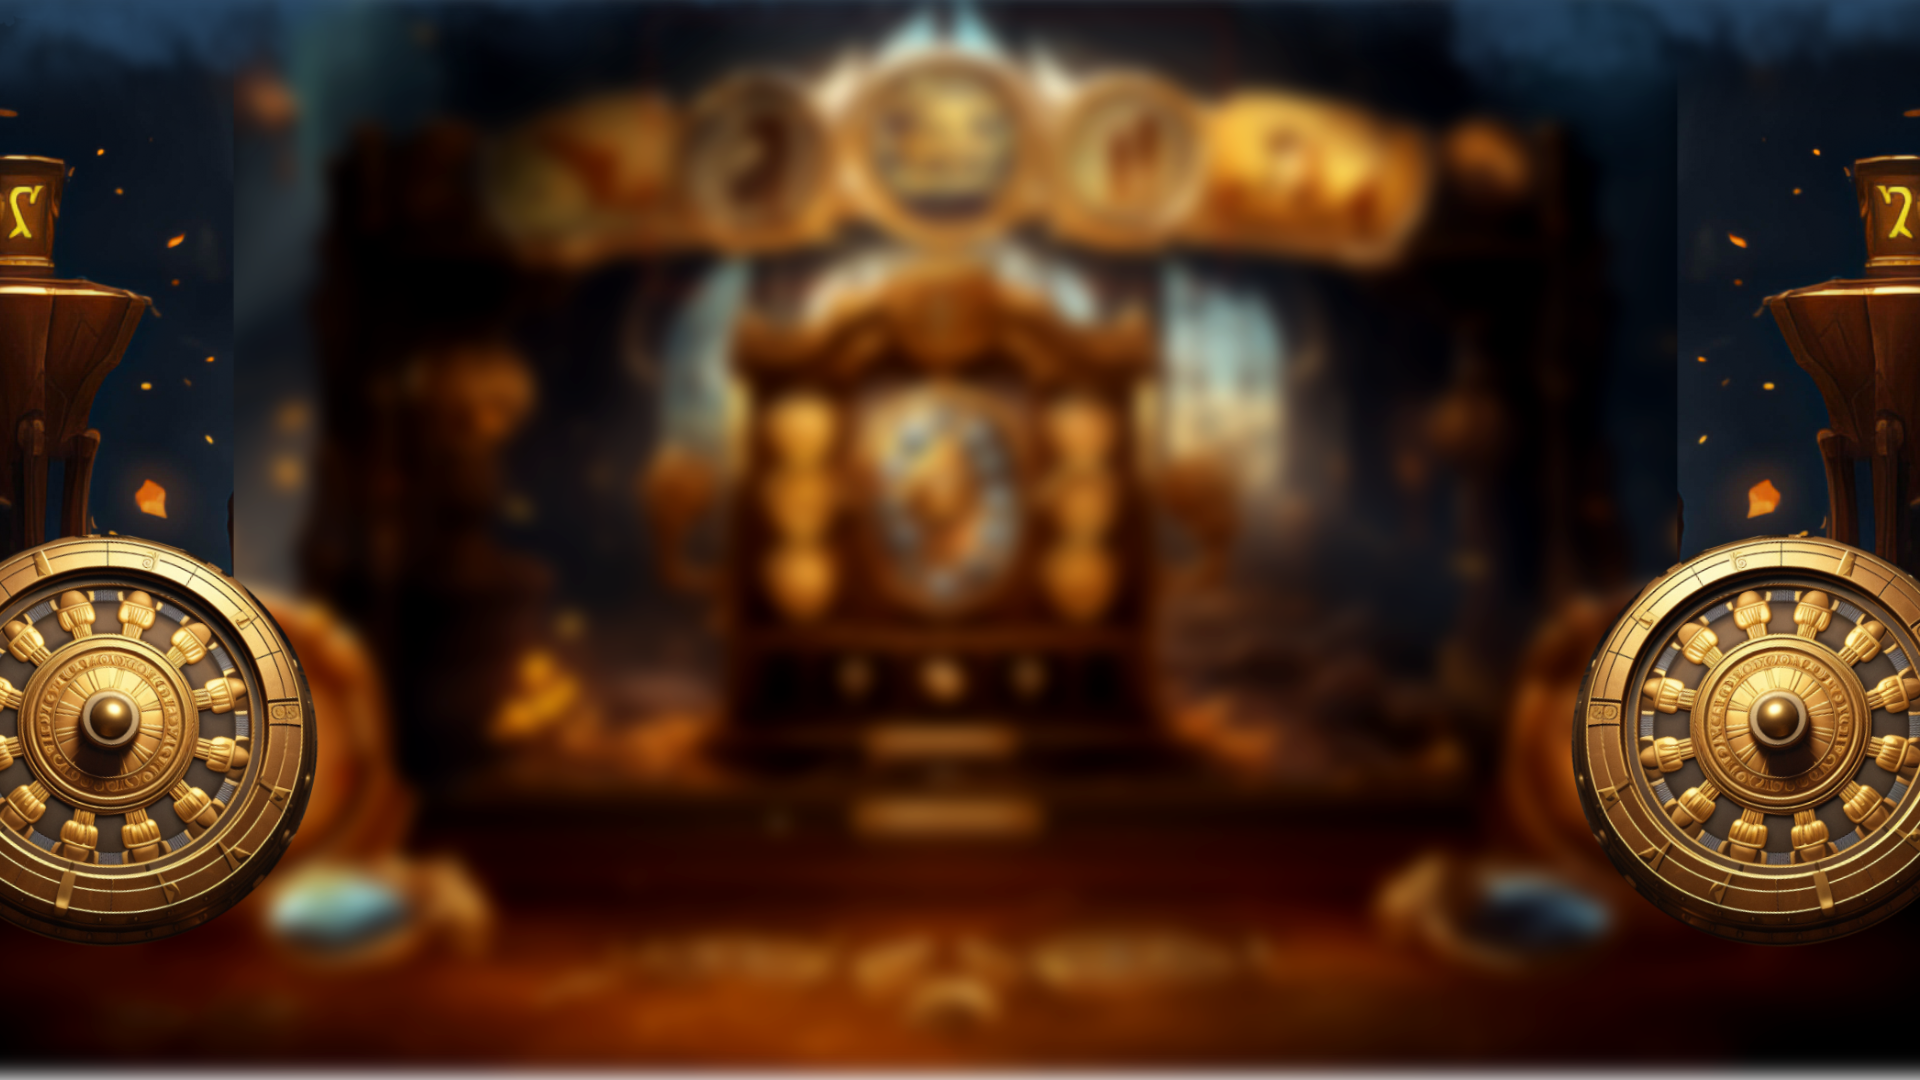
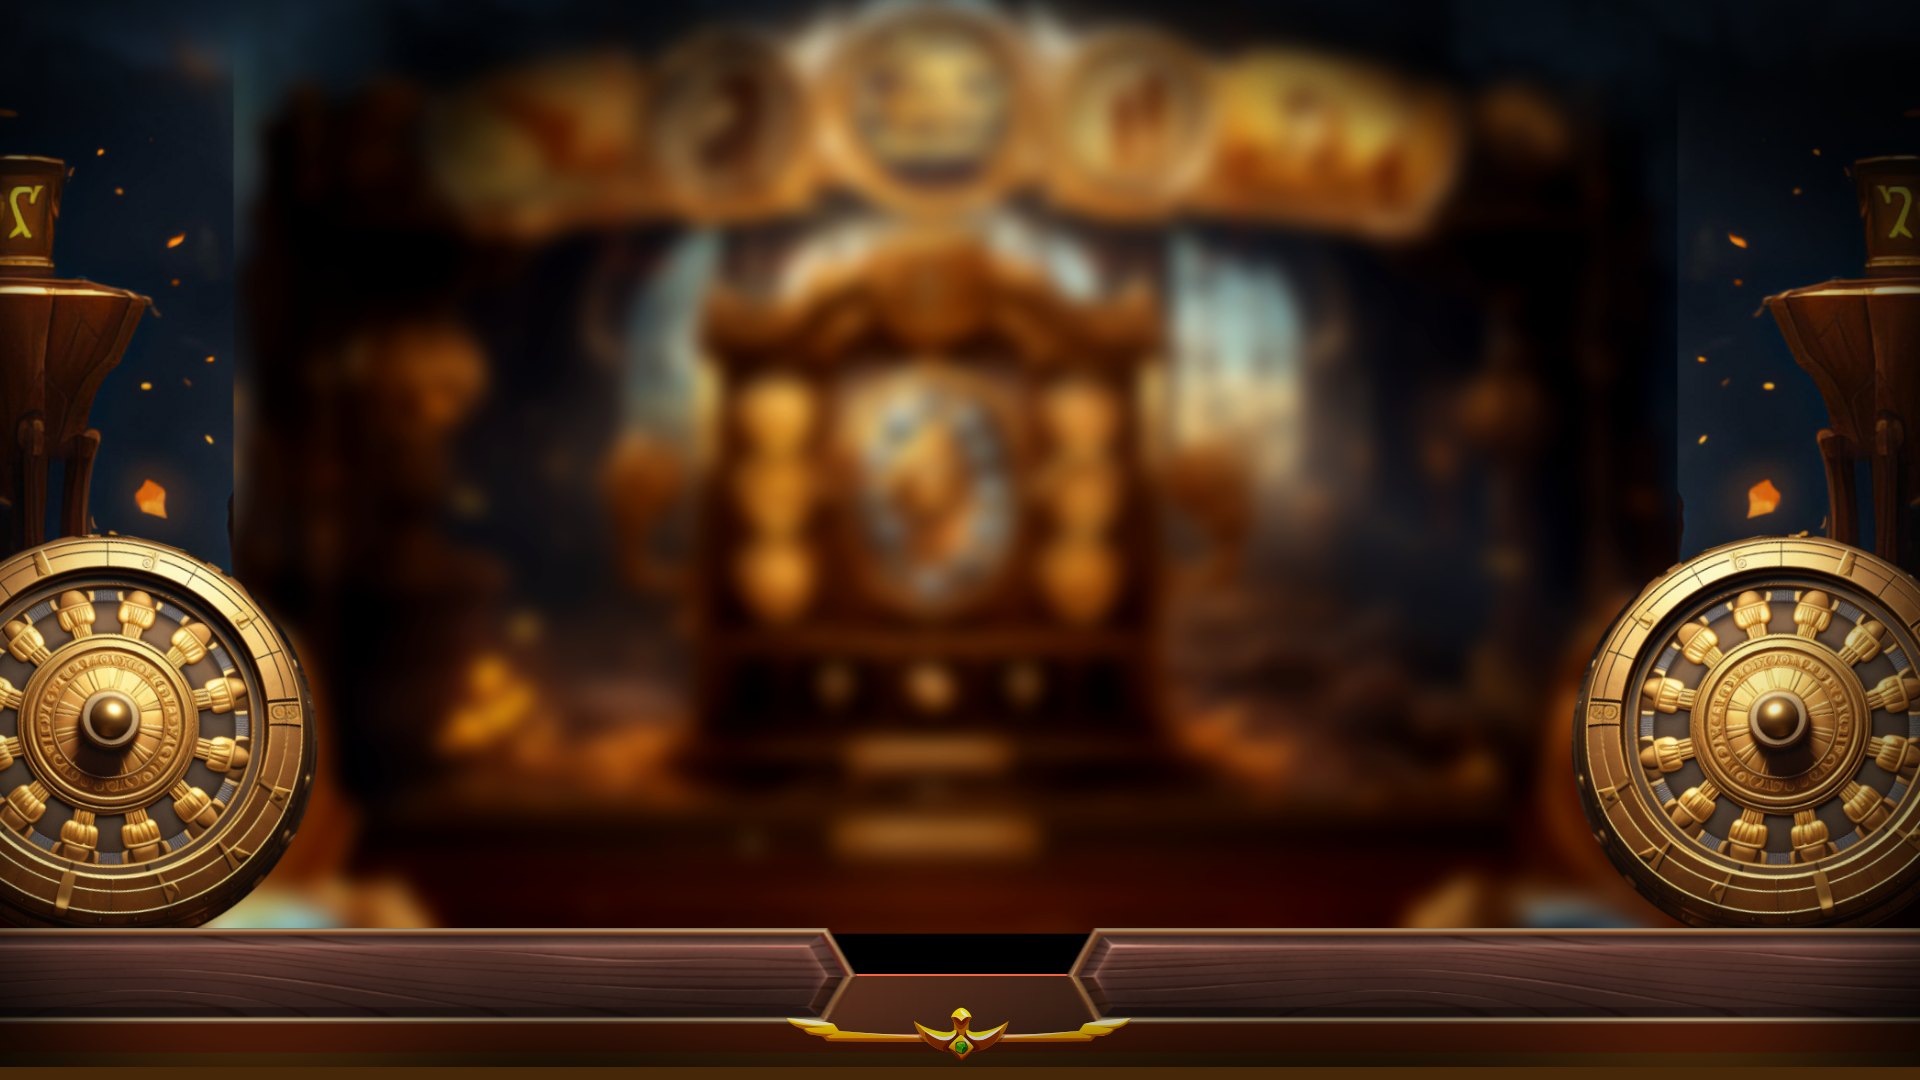
desktop scaling done :+1:

diff --git a/src/scenes/Game.ts b/src/scenes/Game.ts
@@ -1,4 +1,4 @@
-import { GameObjects, Scene } from 'phaser';
+import { Display, GameObjects, Scene } from 'phaser';
 import { PhaserHelpers } from '../helpers';
 import { ImageButton } from '../helpers/ImageButton';
 
@@ -15,6 +15,9 @@ export class Game extends Scene {
     isDeskTop: boolean;
     isLandscape: boolean; // landscape-primary
 
+    gamewidth: number;
+    gameHeight: number;
+
     constructor() {
         super('Game');
     }
@@ -23,6 +26,9 @@ export class Game extends Scene {
         this.isDeskTop = this.sys.game.device.os.desktop;
         this.isLandscape = this.scale.orientation.toString() === Phaser.Scale.LANDSCAPE ? true : false;
         this.scale.on('orientationchange', this.checkOriention, this);
+
+        this.gamewidth = Number(this.game.config.width);
+        this.gameHeight = Number(this.game.config.height);
 
         console.log('isDesktop >> ', this.isDeskTop);
         console.log('isLandscape >> ', this.isLandscape);
@@ -34,17 +40,15 @@ export class Game extends Scene {
         // const bgSpriteKey = this.isDeskTop ? 'desktopBg' : 'desktopBg';
         this.background = this.add.image(this.camera.centerX, this.camera.centerY, 'desktopBg').setOrigin(0.5);
         this.background.setDepth(0);
+        Display.Align.In.Center(this.background, this.add.zone(this.camera.centerX, this.camera.centerY, this.gamewidth, this.gameHeight));
 
-        // this.bottomPanel = this.add.image(0, 0, 'bottom-panel').setDepth(3);
-        // Phaser.Display.Align.In.BottomCenter(this.bottomPanel, this.background);
+        // background element
+        this.frame = this.add.image(this.camera.centerX, this.camera.centerY - 65, 'video-frame').setDepth(4);
+        this.frame.setOrigin(0.5);
 
-        // // background element
-        // this.frame = this.add.image(this.camera.centerX, this.camera.centerY - 65, 'video-frame').setDepth(4);
-        // this.frame.setOrigin(0.5);
-
-        // this.createLowerBox();
-        // this.embedVideo();
-        // this.createButtons();
+        this.createLowerBox();
+        this.embedVideo();
+        this.createButtons();
 
         // update orientation
         this.checkOriention(this.scale.orientation);
@@ -85,24 +89,26 @@ export class Game extends Scene {
     }
 
     private embedVideo() {
-        this.demoVideo = this.add.video(this.camera.centerX, this.camera.centerY, 'demo-video').setOrigin(0.5);
+        this.demoVideo = this.add.video(this.camera.centerX, this.camera.centerY + 10, 'demo-video').setOrigin(0.5);
         this.demoVideo.setInteractive();
         this.demoVideo.setLoop(true);
         this.demoVideo.setVolume(1);
         this.demoVideo.setDepth(1);
         this.demoVideo.play(true);
+        this.demoVideo.setScale(0.7);
 
         this.demoVideo.once('created', () => {
+            console.log(this.demoVideo.displayWidth)
+            const maskRect = this.add.rectangle(0, 0, this.demoVideo.displayWidth, this.demoVideo.displayHeight, 0x000000);
+            Phaser.Display.Align.In.BottomCenter(maskRect, this.frame, 0, -20);
+            // maskRect.setVisible(true);
+            const mask = maskRect.createGeometryMask();
+            this.demoVideo.setMask(mask);
             //  Resize the video stream to fit our monitor once the texture has been created
-            this.demoVideo.setDisplaySize(this.frame.width, this.frame.height).setVisible(true);
+            // this.demoVideo.setDisplaySize(this.frame.width, this.frame.height).setVisible(true);
         });
 
-        // const offsetX = (!this.isDeskTop && this.isLandscape === true) ? 330 : 330;
-        const maskRect = this.add.rectangle(0, 0, this.frame.width - 330, this.frame.height - 200, 0x000000);
-        Phaser.Display.Align.In.BottomCenter(maskRect, this.frame, -20);
-        maskRect.setVisible(true);
-        const mask = maskRect.createGeometryMask();
-        this.demoVideo.setMask(mask);
+        // // const offsetX = (!this.isDeskTop && this.isLandscape === true) ? 330 : 330;
     }
 
     handleEnterNowButton() {
@@ -127,10 +133,10 @@ export class Game extends Scene {
                 this.frame.setDisplaySize(1500, this.frame.displayHeight);
                 this.demoVideo.setDisplaySize(this.frame.displayWidth, this.frame.displayHeight);
                 console.log(this.frame.displayWidth / this.frame.displayHeight);
-                
+
                 Phaser.Display.Align.In.BottomRight(this.prizePoolContainer, this.background, 10, -220);
                 Phaser.Display.Align.In.BottomLeft(this.nextRoundContainer, this.background, 10, -220);
-               
+
             }
         }
 
